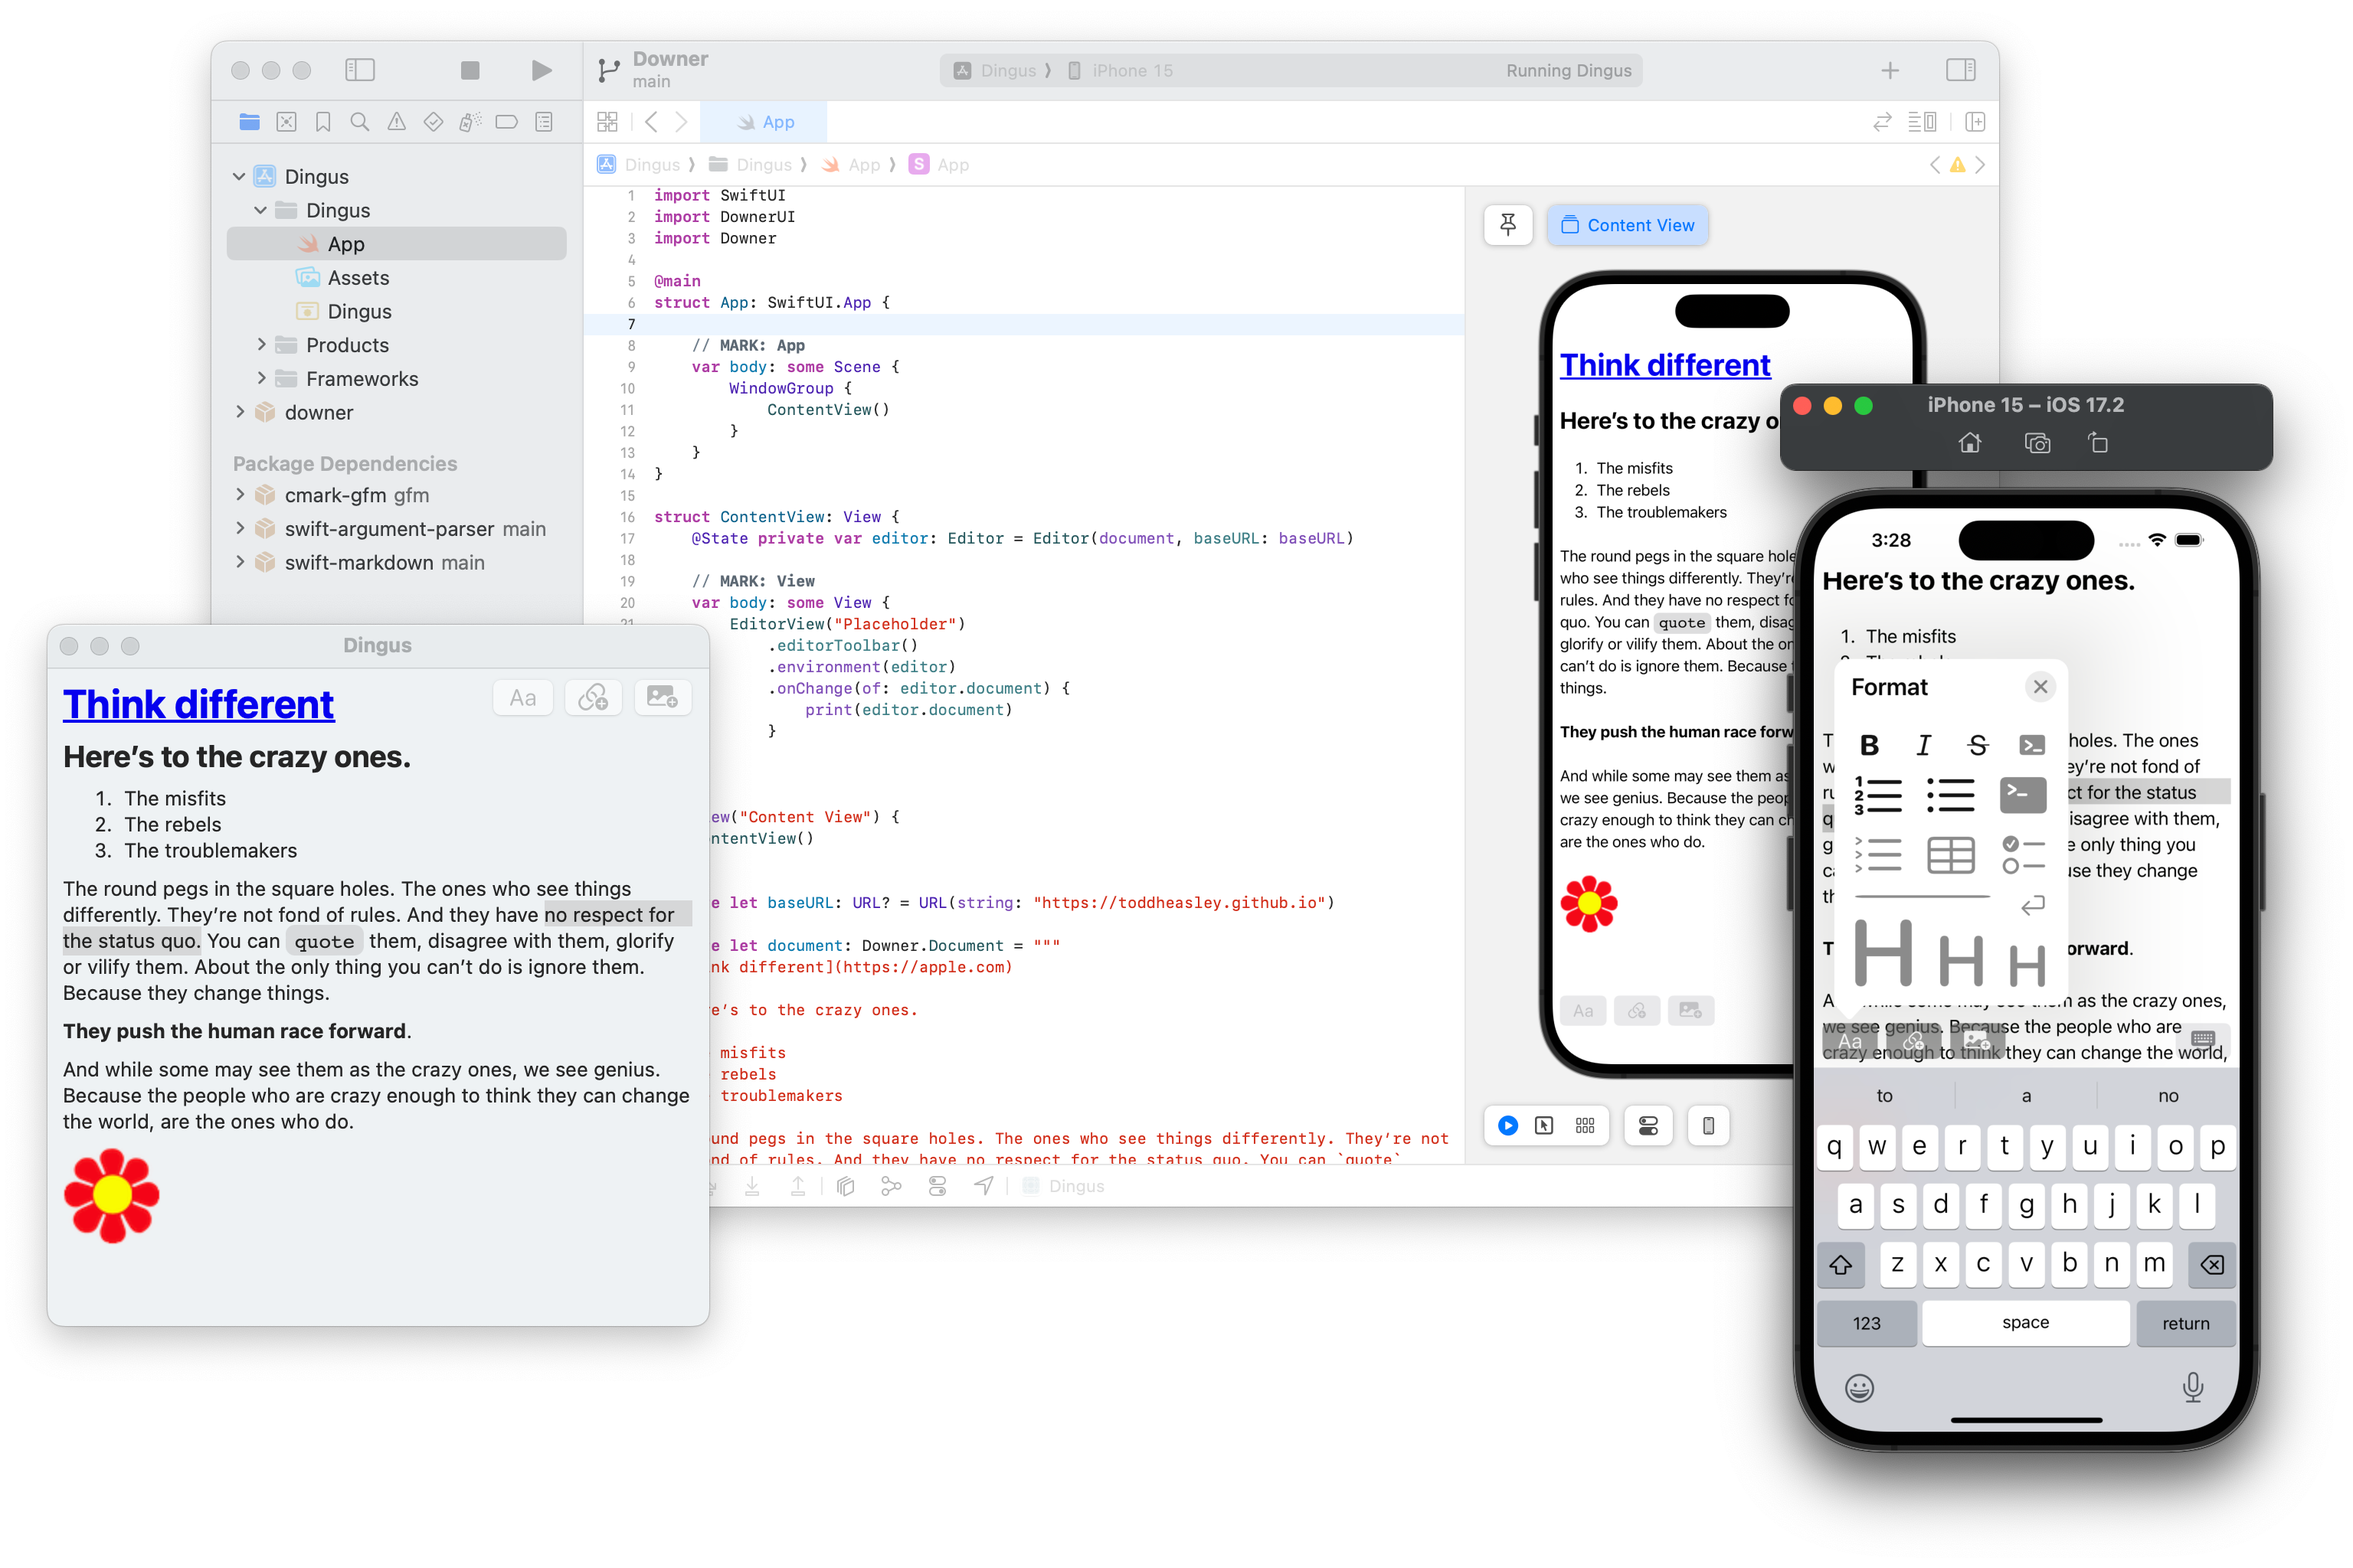
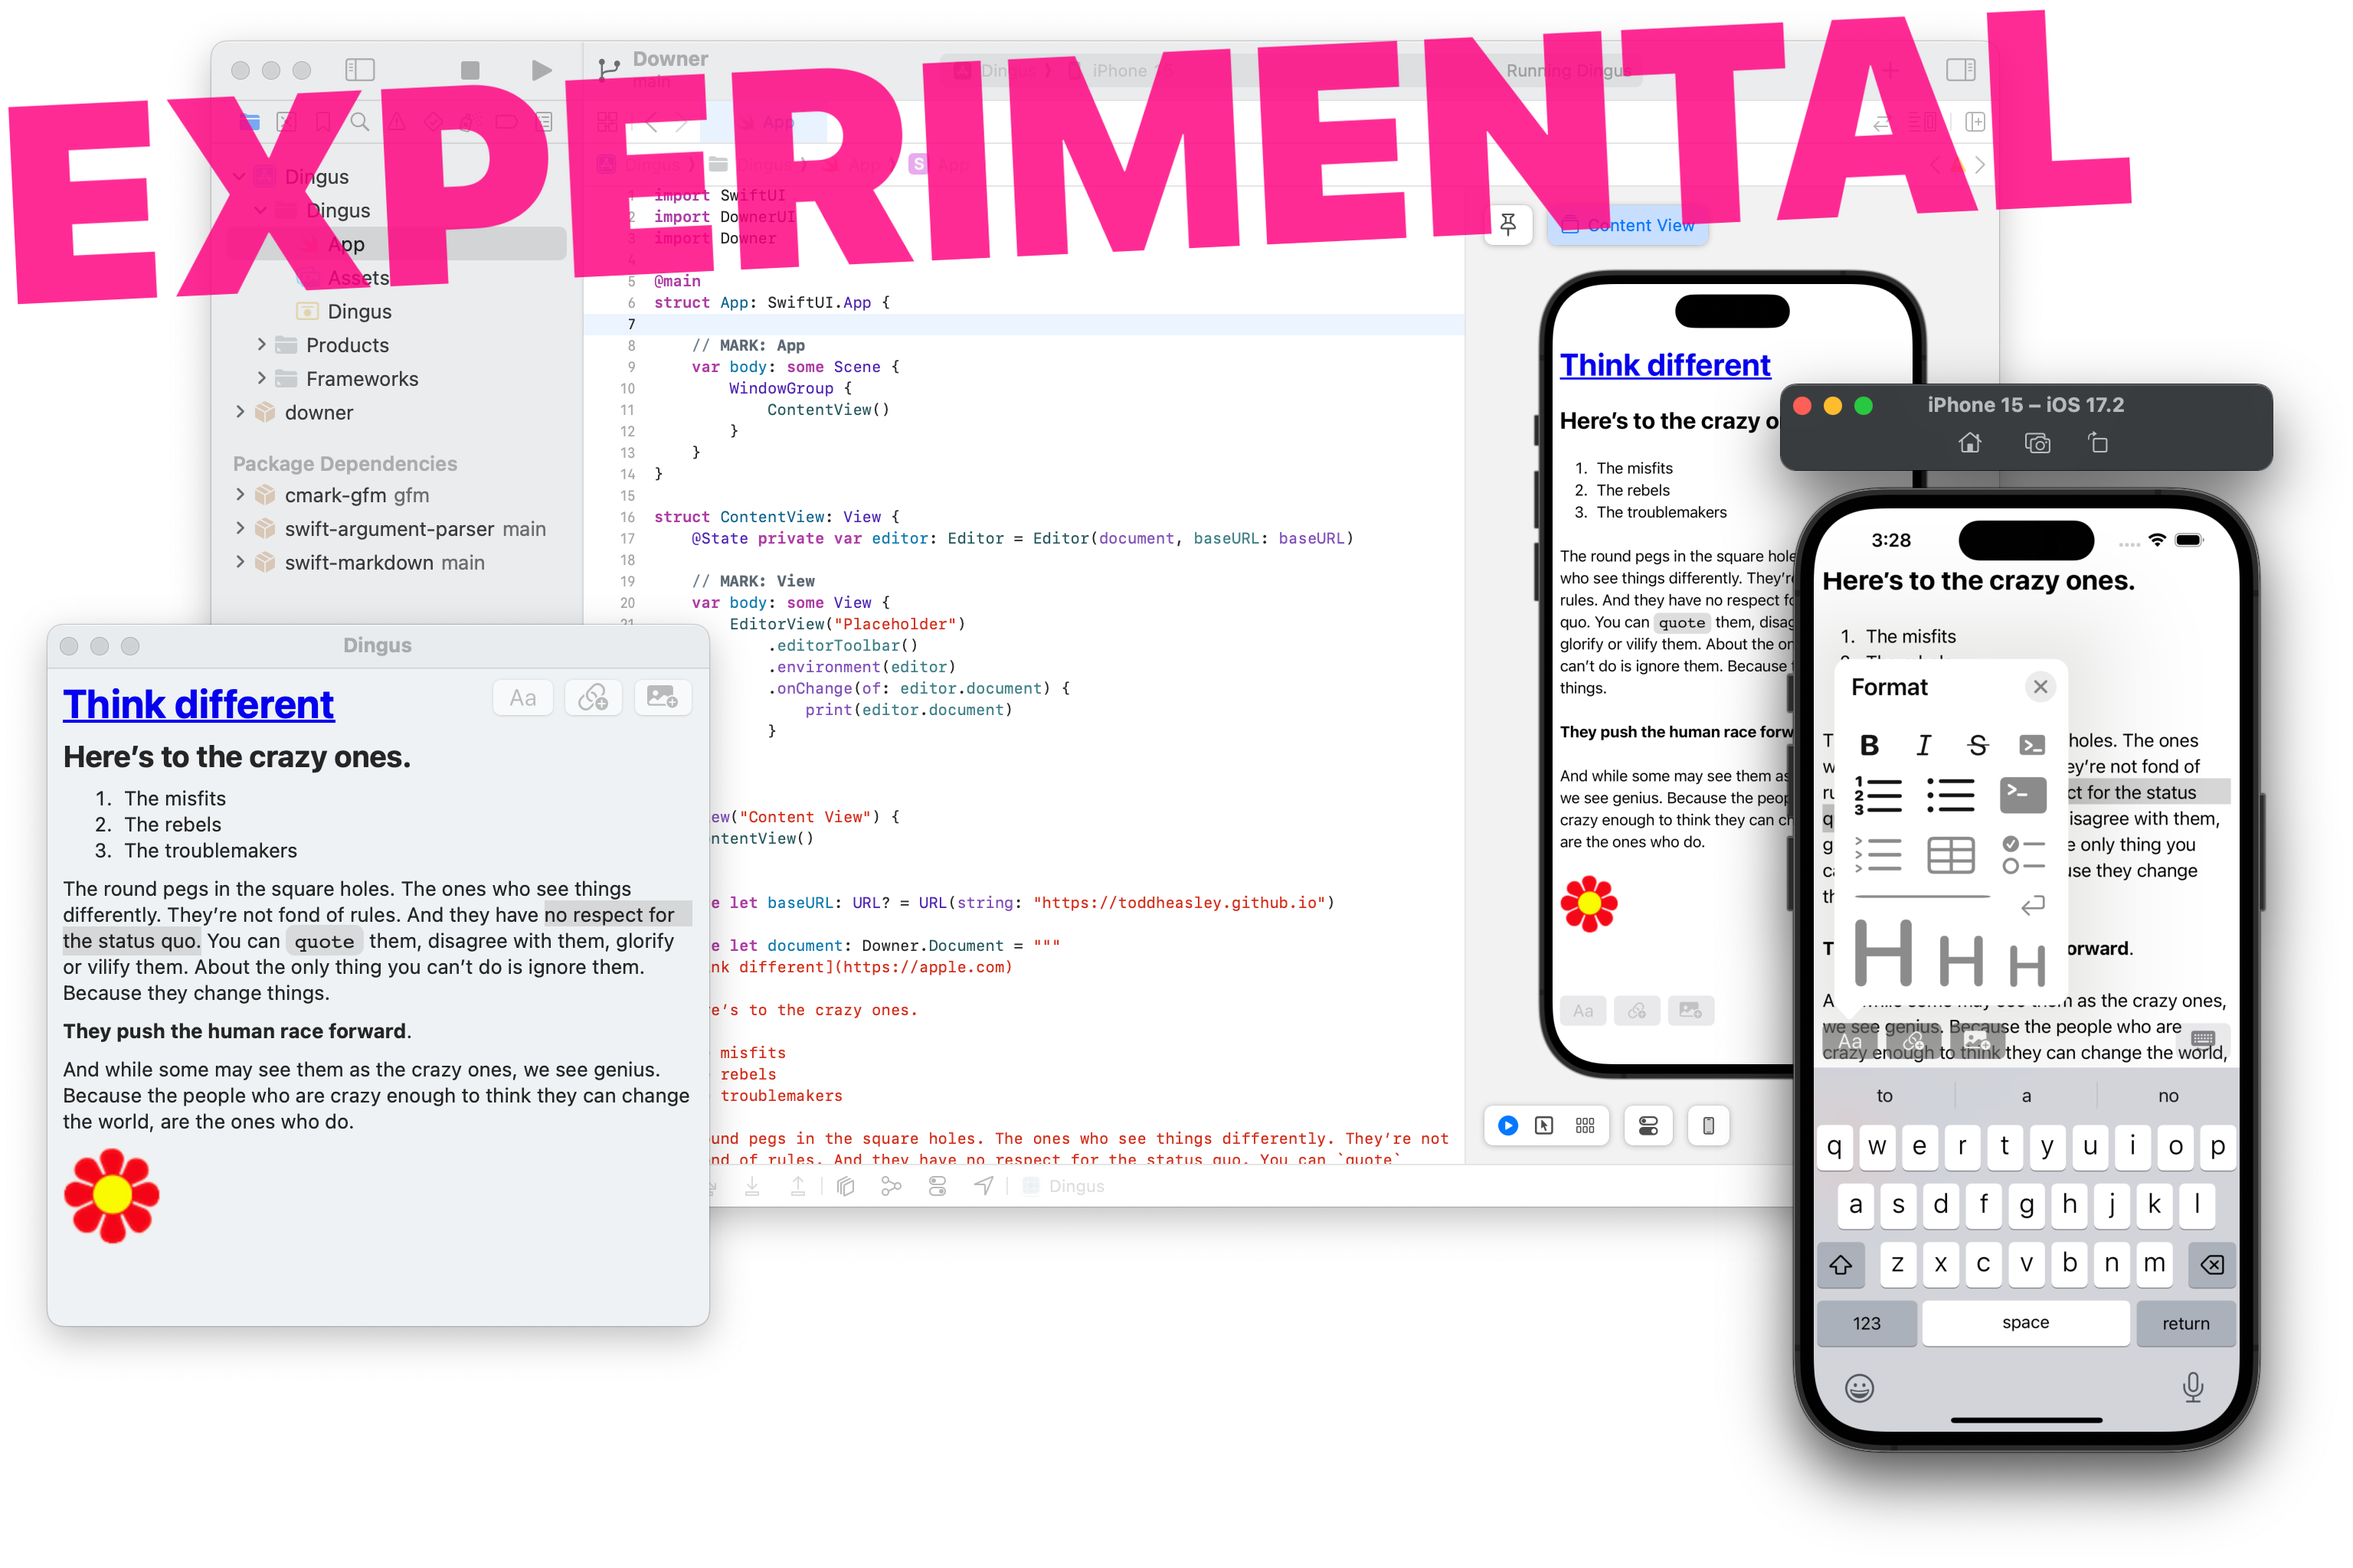
Update README

Changed region(s): [[0.0, 0.0, 0.9062, 0.2188]]

diff --git a/README.md b/README.md
@@ -13,7 +13,7 @@ Written in [Swift](https://developer.apple.com/swift) 5.9 for Apple stuff:
 
 Build with [Xcode](https://developer.apple.com/xcode) 15 or newer. Command-line interface depends on [Swift Argument Parser.](https://github.com/apple/swift-argument-parser)
 
-## WYSIWYG WIP ![EXPERIMENTAL](docs/experimental-large.svg)
+## WYSIWYG WIP
 
 `DownerUI.EditorView` is a [WYSIWYG](https://en.wikipedia.org/wiki/WYSIWYG) Markdown editor for iOS/iPadOS and macOS apps. It's like if SwiftUI `TextEditor` edited plain Markdown/HTML strings instead of attributed strings.
 
@@ -93,7 +93,7 @@ toddheasley % ls
 README.html	README.md	README~.md
 ```
 
-![EXPERIMENTAL](docs/experimental-small.svg) Use `--convert` to convert HTML in source file to Markdown syntax when possible:
+![](docs/experimental.svg) Use `--convert` to convert HTML in source file to Markdown syntax when possible:
 
 ```zsh
 toddheasley % ./downer-cli README.md -c
